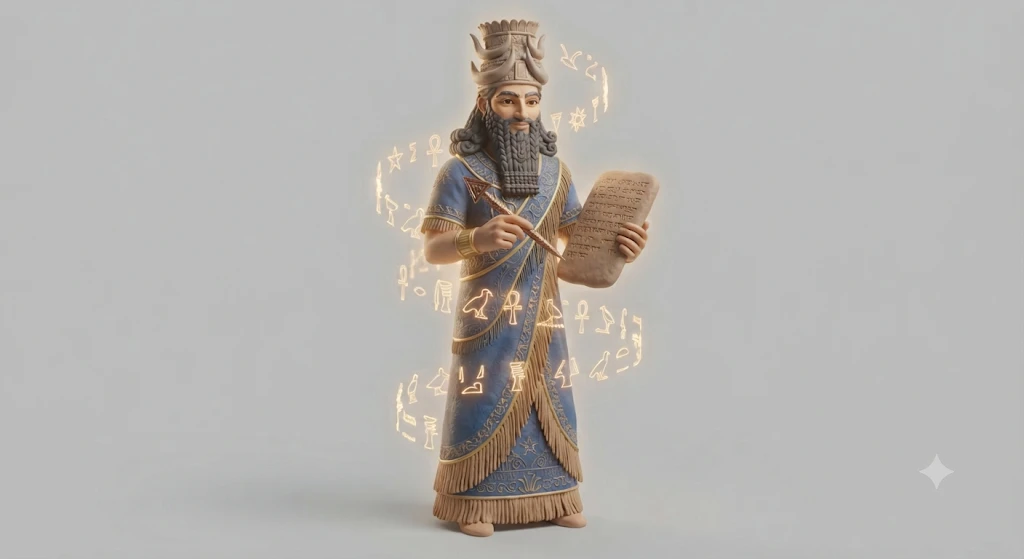
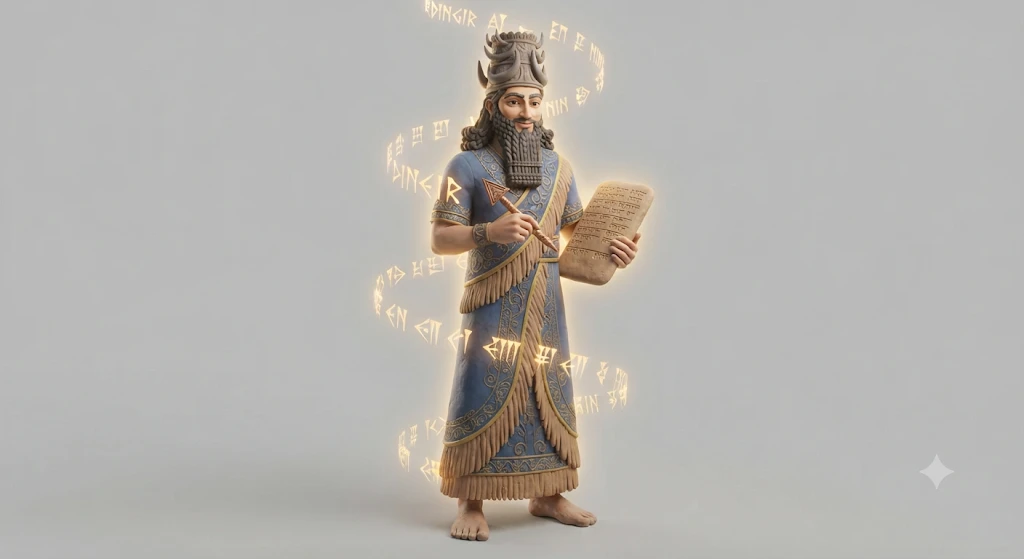
Sổ tay: ảnh Distortia, Nabu (đúng chữ hình nêm), Vorax, Vocara, Silentium; câu lệnh Distortia theo bản chủ dự án (104/105 ảnh)
Claude-Session: https://claude.ai/code/session_01Ff7HpW9FWNnmYmk5795aNF

Changed region(s): [[0.3438, 0.0, 0.6562, 0.9732]]

diff --git a/docs/design/bestiary.html b/docs/design/bestiary.html
@@ -95,7 +95,7 @@ footer{margin-top:40px;color:var(--fog);font-size:.88rem;display:grid;gap:6px}
 
 <div class="wrap">
   <header>
-    <div class="eyebrow">EnglishVerse · sổ tay nhân vật · bản thử 24 · 20/11</div>
+    <div class="eyebrow">EnglishVerse · sổ tay nhân vật · bản thử 25 · 20/11</div>
     <h1>Mute <span>Bestiary</span></h1>
     <p class="lead">25 thần quái của vòng trong và 2 thần thú bị xiềng quanh The Last Echo City: 15 quái thường, 3 tinh anh, 1 quái hiếm và 5 trùm. Nhiều con lấy từ thành ngữ, ca dao, trò chơi dân gian. Silentium nặn chúng từ nỗi sợ trong chính truyện kể và đời sống của vùng đất này. Mỗi con đang giam Word Spirits trong người.</p>
     <div class="note">
@@ -495,11 +495,11 @@ const M = [
   {"id": "anzu", "img": "concept/anzu.webp", "tier": "elite", "gen": "Vorax", "name": "Anzû", "vn": "Anzû · Chim Đầu Sư Tử Cướp Phiến Định Mệnh", "emo": "🦁", "body": "chim thần thoại (giữ nguyên)", "lore": "Thần thoại kể chim khổng lồ Anzû đầu sư tử đã cướp Phiến Định Mệnh, phiến đất sét khắc những lời quyết định mọi thứ trên đời, rồi bay lên núi giấu đi. Vorax cho nó cướp lại lần nữa: lần này là mọi phiến chữ còn sót lại của Lưỡng Hà.", "mean": "Bị \"cướp lượt\": người khác nói chen, mình mất cơ hội nói.", "shape": ["Đại bàng khổng lồ cánh nâu sẫm viền vàng", "Đầu sư tử bờm dày, nanh to", "Móng quặp một phiến đất sét lớn phát sáng", "Bụng phình đỏ thẫm chứa chữ hình nêm bị nuốt", "Hàm sư tử bị xích, mắt sắc"], "pal": [["#5A3E2A", "lông nâu"], ["#C9973E", "bờm vàng"], ["#E0465C", "Vorax"], ["#9B6DFF", "Mute"]], "pers": "Tham lam, kiêu ngạo, thích cướp.", "fight": "Quái tinh anh: máu ×2. Sà xuống cướp 1 hiệu ứng có lợi của người chơi (khiên, tăng sức) rồi bay lên. Vỗ cánh tạo bão cát. Đánh vào phiến đất sét: rơi Word Spirits.", "p": "Anzu, the giant lion-headed eagle from Mesopotamian myth: huge dark brown eagle wings edged with gold, a lion head with a thick mane and big fangs, its talons clutching a large glowing clay tablet, a crimson glowing belly full of swallowed cuneiform characters, its lion jaws chained shut, sharp eyes. Surreal dark-fantasy creature for a stylized 3D mobile game: stylized proportions, soft clay-like materials, bold readable silhouette, menacing and cool, sharp narrow glowing eyes with an intimidating glare, NOT cute or goofy. Mute-faction markings: its mouth is sealed (stitched shut, zipped or bound), glowing violet cracks on the body with tiny luminous cuneiform wedge characters trapped inside. Full body, single character, front three-quarter view, neutral standing pose, centered, plain light grey background, no text, no logo, no ground shadow. Elite monster, twice the size of normal monsters. Accent: deep crimson glow.", "zone": "↙ Khu Lưỡng Hà · Babel Rift · Lv.90–100", "area": "me", "full": true},
   {"id": "lamassu", "img": "concept/lamassu.webp", "tier": "boss", "gen": "Oblivia", "name": "Lamassu", "vn": "Lamassu · Thần Bò Canh Cổng", "emo": "🐂", "body": "thần canh cổng (giữ nguyên)", "lore": "Lamassu là thần hộ vệ đầu người, thân bò, cánh đại bàng, được tạc thành tượng khổng lồ hai bên cổng cung điện Lưỡng Hà. Tượng thật có năm chân: nhìn thẳng thấy đứng yên, nhìn nghiêng thấy đang bước. Silentium đặt nó canh chân tháp Babel đổ nát, nơi mở ra cổng vào The Mute Realm, và Oblivia xoá sạch ký ức của nó về tiếng nói chung đầu tiên của loài người. Giải thoát Lamassu, Nabu (vị thần của chữ viết và người chép chữ) truyền lời qua vòm và trao cây bút khắc chữ hình nêm; còn Lamassu quay về đúng việc của mình: canh cổng, nhưng lần này cho các Voice đi qua để đối mặt Silentium.", "mean": "Quên mất rằng ngôn ngữ sinh ra để nối con người với nhau.", "shape": ["Thân bò mộng khổng lồ bằng đá vôi, năm chân (đúng như tượng thật)", "Đầu người đội mũ có sừng, râu tết thành lọn dài", "Đôi cánh đại bàng lớn khắc từng lông", "Nửa khuôn mặt bị tẩy trắng trơn (dấu Oblivia)", "Xích chữ hình nêm tím quấn quanh, ấn phong nứt trên trán; sau lưng là chân tháp Babel đổ nát có cổng xoáy tím"], "pal": [["#D8C9A8", "đá vôi"], ["#2F5DA8", "lam"], ["#C9A46A", "vàng"], ["#EAE6DC", "Oblivia"]], "pers": "Uy nghiêm, cổ xưa, đau đớn vì quên mất chính mình.", "fight": "3 giai đoạn. (1) Húc và dậm đất, vòng đỏ hình nón. (2) Bay lên, đập cánh tạo bão cát; đòn \"Tẩy\" làm mờ 1 nút chiêu 5 giây. (3) Cổng xoáy tím sau lưng mở rộng, hút người chơi về phía cổng, gọi Tablet Golem. Hạ nó: cổng vào The Mute Realm mở ra cho trận cuối.", "p": "A colossal lamassu boss from ancient Mesopotamia: the body of a giant bull carved of limestone with FIVE legs like the real palace sculptures, a human head wearing a horned crown and a long braided beard, large carved eagle wings, half of its face smooth and blank white as if erased, standing before the ruined base of a colossal spiral tower with a swirling violet portal. Wrapped in violet chains made of glowing cuneiform characters, a cracked violet seal glowing on its forehead. Surreal dark-fantasy boss creature for a stylized 3D mobile game: epic and majestic, fierce sharp glowing eyes, NOT cute or goofy, soft clay-like stylized materials, bold readable silhouette, three times the size of normal monsters. Mute corruption: glowing violet cracks across its body with tiny luminous cuneiform wedge characters trapped inside. Full body, single creature, front three-quarter view, centered, plain light grey background, no text, no logo, no ground shadow. Accent: smooth blank white erased patches.", "zone": "↙ Khu Lưỡng Hà · Babel Rift · Lv.90–100", "area": "me", "full": true},
   {"id": "tiamat", "img": "concept/tiamat.webp", "gen": "Oblivia", "name": "Tiamat", "vn": "Tiamat · Mẹ Của Quái Vật", "emo": "🐲", "body": "rồng biển năm đầu (phong cách trùm)", "lore": "Sử thi sáng thế Enuma Elish kể Tiamat là biển mặn nguyên thuỷ, mẹ của mọi quái vật: chính bà sinh ra người bọ cạp, rồng mušḫuššu và nhiều quái khác để chống lại các vị thần. Oblivia đánh thức bà dưới chân tháp Babel: biển nguyên thuỷ dâng lên, xoá mọi dòng chữ nó chạm vào.", "mean": "Nỗi sợ gốc rễ sinh ra mọi nỗi sợ khác khi nói.", "shape": ["Rồng biển khổng lồ năm đầu, năm cổ dài vươn ra như sóng dữ", "Năm đầu cùng chất liệu nước biển thẫm, khác nhau ở hình dáng sừng và hàm (không chia màu)", "Đôi cánh khổng lồ như hai màng sóng biển dựng đứng, viền bọt trắng", "Thân là nước mặn xanh thẫm, lờ mờ bóng quái vật chưa thành hình bên trong", "Đuôi dài khoẻ cuộn ra phía trước, cuối đuôi là vây như con sóng vỡ; xích chữ hình nêm tím, ấn phong nứt trên đầu giữa"], "pal": [["#16324A", "biển thẫm"], ["#2F8FA8", "sóng"], ["#F2F0E6", "bọt"], ["#EAE6DC", "Oblivia"]], "pers": "Cổ xưa, mênh mông, giận dữ như biển động.", "fight": "Trùm hiếm (~5% thay Lamassu), rơi đồ quý. (1) Sóng nước quét ngang sân. (2) Sinh quái: gọi Scorpion Guard và Sirrush ra. (3) Nước dâng: sân thu hẹp; đòn \"Tẩy\" làm mờ 1 nút chiêu 5 giây.", "p": "Tiamat, the primordial sea dragon and mother of monsters from the Babylonian creation epic: a colossal dragon with FIVE long-necked heads rising like raging waves, all five heads made of the same deep dark-blue sea water with coral-like horns and sea-foam manes, each head with a different horn and jaw shape (NOT different colors), two enormous wings like towering membranes of storm-sea waves edged with white foam, a body of dark salt water with faint shapes of unborn monsters inside. A long powerful tail ending in a fin like a breaking wave, clearly visible and curling around to the front. Wrapped in violet chains made of glowing cuneiform characters, a cracked violet seal on the central head. Surreal dark-fantasy boss creature for a stylized 3D mobile game: epic and majestic, fierce sharp glowing eyes, NOT cute or goofy, soft clay-like stylized materials, bold readable silhouette, three times the size of normal monsters. Mute corruption: glowing violet cracks across its body with tiny luminous cuneiform wedge characters trapped inside. Full body, single creature, front three-quarter view, centered, plain light grey background, no text, no logo, no ground shadow. No white spots or blank patches on the body.", "tier": "boss", "rb": true, "zone": "↙ Khu Lưỡng Hà · Babel Rift · Lv.90–100", "area": "me", "full": true},
-  {"id": "vocara", "tier": "supreme", "name": "Vocara", "vn": "Đấng Tiếng Nói Tối Cao", "emo": "🌟", "body": "thực thể ánh sáng", "zone": "✨ Chiều 3 · The Langua", "lore": "Vocara ban cho loài người Vox Prima, chiếc thanh quản thần thánh, cùng bản năng sống thành bầy. Vocara không trao sẵn ngôn ngữ nào, chỉ trao khả năng nói. Ở tháp Babel, chính Vocara tách tiếng nói chung thành nhiều thứ tiếng để The Mute không thể xoá tất cả trong một đòn.", "mean": "Ngôn ngữ là món quà, và sự đa dạng ngôn ngữ là thứ bảo vệ loài người.", "shape": ["Không có khuôn mặt, không giới tính: một hình người cao lớn bằng ánh sáng vàng trắng", "Ở cổ là một tinh thể hình thanh quản, các dây thanh như dây đàn hạc phát sáng (Vox Prima)", "Sau lưng là đôi cánh làm từ những vòng sóng âm", "Từ thân toả ra chữ cái của mọi ngôn ngữ, bay như đom đóm", "Chỉ hiện như ánh sáng và giọng nói, không bao giờ rõ nét"], "pal": [["#FFF4D6", "ánh sáng"], ["#F5C451", "vàng"], ["#BFE7F2", "sóng âm"], ["#FFFFFF", "trắng"]], "pers": "Bao dung, xa xăm, chỉ lên tiếng qua giọng nói con người.", "fight": "Không bao giờ hiện hình rõ. Phim mở đầu: ánh sáng và giọng nói kể chuyện. Trong game: Babel Tower phát sáng mỗi khi cả server góp đủ câu nói.", "p": "Vocara, the supreme being of speech: a tall faceless genderless humanoid form made entirely of warm golden-white light, a glowing crystal shaped like a larynx at its throat with vocal cords like shining harp strings, wings made of concentric sound-wave rings, letters from all the world's alphabets drifting out of its body like fireflies, soft and abstract, never fully defined, original design NOT based on any religious figure. Majestic benevolent deity character for a stylized 3D mobile game: soft clay-like stylized materials, a warm golden glow, a wise, kind but powerful presence, bold readable silhouette, a respectful depiction faithful to the original mythology. Full body, single character, front three-quarter view, centered, plain light grey background, no text, no logo, no ground shadow.", "area": "pa", "full": true},
-  {"id": "silentium", "tier": "lord", "name": "Silentium", "vn": "Chúa Tể The Mute", "emo": "🌑", "body": "hình người rỗng của im lặng", "zone": "🌑 Chiều 1 · The Mute Realm", "lore": "Silentium là chúa tể của The Mute Realm, thế lực của im lặng và quên lãng. Lần đầu ở tháp Babel, hắn tưởng đã thắng nên bỏ đi. Lần này hắn quay lại, ở lại hẳn, phá Vocal Frequency, xoá tri thức và nhốt linh hồn ngôn ngữ vào lũ thần quái. Im lặng là sự vắng mặt, nên hắn không cần thân xác: thân hắn là một khoảng trống.", "mean": "Im lặng vì sợ: kẻ thù thật sự của người học nói.", "shape": ["Hình người khổng lồ trùm áo choàng xám tro, nhưng thân là khoảng trống rỗng: nhìn xuyên qua thấy nhiễu sóng như màn hình tắt", "Không có miệng; khuôn mặt nhẵn như mặt nạ đá, chỉ có hai khe mắt tím", "Ngón tay dài đặt lên chỗ lẽ ra là môi, cử chỉ \"suỵt\"", "Vương miện là những đường sóng âm bị duỗi thẳng thành một vạch phẳng", "Áo choàng kết từ những trang sách đã bị xoá trắng; vết nứt tím lan ra từ chân hắn"], "pal": [["#6E6A78", "tro xám"], ["#1A1724", "bóng tối"], ["#9B6DFF", "tím Mute"], ["#D8D4E0", "trang xoá"]], "pers": "Lạnh lẽo, kiêu ngạo, ghen tị với thế giới loài người.", "fight": "Phim mở đầu: chỉ thấy bóng mờ phủ lên thành phố. Trận cuối: trùm tối thượng ở tầng sâu nhất của The Mute Realm, sau khi hạ 4 tướng (thiết kế trận đấu sau).", "p": "Silentium, the lord of silence: a colossal hooded figure in an ash-grey cloak whose body is a hollow void, through which you see grey television static, a smooth stone-mask face with NO mouth and only two narrow violet eye slits, one long finger raised to where its lips should be in a 'shh' gesture, a crown made of sound waves flattened into a single straight line, its cloak made of pages with erased blank text, violet cracks spreading from its feet. Supreme dark-fantasy villain character for a stylized 3D mobile game: epic, ominous and majestic, NOT gory, soft clay-like stylized materials, bold readable silhouette, a palette of grey, black and violet. Full body, single character, front three-quarter view, centered, plain light grey background, no text, no logo, no ground shadow.", "area": "pa", "full": true},
-  {"id": "distortia", "tier": "general", "gen": "Distortia", "name": "Distortia", "vn": "Tướng Nhiễu Sóng", "emo": "📡", "body": "thực thể nhiễu", "zone": "🌑 Chiều 1 · The Mute Realm", "lore": "Distortia là tướng làm nhiễu Vocal Frequency: lời nào đi qua tay nó cũng méo, đảo chỗ, nghe không ra. Thuồng Luồng, Banshee, Siren, Cửu Anh… đều mang dấu xanh lơ nhiễu của nó.", "mean": "Nghe nhầm, nói lẫn: âm thanh bị bóp méo.", "shape": ["Hình người đầy đủ từ đầu tới chân, đứng vững trên hai chân (để dựng 3D), thân ghép từ mảnh gương vỡ", "Khuôn mặt bị nhân đôi, nhân ba, lệch hình như ảnh nhiễu", "Tóc là những dải sóng âm răng cưa màu xanh lơ", "Cầm cây âm thoa xoắn làm quyền trượng", "Vệt nhiễu glitch xanh lơ chạy ngang thân; miệng bị kéo khoá"], "pal": [["#38E1F2", "xanh lơ"], ["#1A1724", "bóng tối"], ["#C8D3E0", "gương"], ["#9B6DFF", "tím Mute"]], "pers": "Láu cá, hỗn loạn, thích trêu chọc.", "fight": "Trùm canh tầng 1 của The Mute Realm. Có thể xuất hiện trong sự kiện theo mùa ở các vết rách.", "p": "Distortia, a general of the Mute, shown FULL BODY from head to feet standing firmly on two legs: a tall humanoid figure made of shattered mirror shards, each shard reflecting at a slightly offset angle, a face duplicated two or three times like a glitched image, hair made of jagged cyan sound-wave ribbons, holding a twisted tuning fork as a scepter, horizontal cyan glitch streaks across its body, its mouth zipped shut. Supreme dark-fantasy villain character for a stylized 3D mobile game: epic, ominous and majestic, NOT gory, soft clay-like stylized materials, bold readable silhouette, a palette of grey, black and violet. Full body, single character, front three-quarter view, centered, plain light grey background, no text, no logo, no ground shadow. Accent color: cyan.", "area": "pa", "full": true},
+  {"id": "vocara", "img": "concept/vocara.webp", "tier": "supreme", "name": "Vocara", "vn": "Đấng Tiếng Nói Tối Cao", "emo": "🌟", "body": "thực thể ánh sáng", "zone": "✨ Chiều 3 · The Langua", "lore": "Vocara ban cho loài người Vox Prima, chiếc thanh quản thần thánh, cùng bản năng sống thành bầy. Vocara không trao sẵn ngôn ngữ nào, chỉ trao khả năng nói. Ở tháp Babel, chính Vocara tách tiếng nói chung thành nhiều thứ tiếng để The Mute không thể xoá tất cả trong một đòn.", "mean": "Ngôn ngữ là món quà, và sự đa dạng ngôn ngữ là thứ bảo vệ loài người.", "shape": ["Không có khuôn mặt, không giới tính: một hình người cao lớn bằng ánh sáng vàng trắng", "Ở cổ là một tinh thể hình thanh quản, các dây thanh như dây đàn hạc phát sáng (Vox Prima)", "Sau lưng là đôi cánh làm từ những vòng sóng âm", "Từ thân toả ra chữ cái của mọi ngôn ngữ, bay như đom đóm", "Chỉ hiện như ánh sáng và giọng nói, không bao giờ rõ nét"], "pal": [["#FFF4D6", "ánh sáng"], ["#F5C451", "vàng"], ["#BFE7F2", "sóng âm"], ["#FFFFFF", "trắng"]], "pers": "Bao dung, xa xăm, chỉ lên tiếng qua giọng nói con người.", "fight": "Không bao giờ hiện hình rõ. Phim mở đầu: ánh sáng và giọng nói kể chuyện. Trong game: Babel Tower phát sáng mỗi khi cả server góp đủ câu nói.", "p": "Vocara, the supreme being of speech: a tall faceless genderless humanoid form made entirely of warm golden-white light, a glowing crystal shaped like a larynx at its throat with vocal cords like shining harp strings, wings made of concentric sound-wave rings, letters from all the world's alphabets drifting out of its body like fireflies, soft and abstract, never fully defined, original design NOT based on any religious figure. Majestic benevolent deity character for a stylized 3D mobile game: soft clay-like stylized materials, a warm golden glow, a wise, kind but powerful presence, bold readable silhouette, a respectful depiction faithful to the original mythology. Full body, single character, front three-quarter view, centered, plain light grey background, no text, no logo, no ground shadow.", "area": "pa", "full": true},
+  {"id": "silentium", "img": "concept/silentium.webp", "tier": "lord", "name": "Silentium", "vn": "Chúa Tể The Mute", "emo": "🌑", "body": "hình người rỗng của im lặng", "zone": "🌑 Chiều 1 · The Mute Realm", "lore": "Silentium là chúa tể của The Mute Realm, thế lực của im lặng và quên lãng. Lần đầu ở tháp Babel, hắn tưởng đã thắng nên bỏ đi. Lần này hắn quay lại, ở lại hẳn, phá Vocal Frequency, xoá tri thức và nhốt linh hồn ngôn ngữ vào lũ thần quái. Im lặng là sự vắng mặt, nên hắn không cần thân xác: thân hắn là một khoảng trống.", "mean": "Im lặng vì sợ: kẻ thù thật sự của người học nói.", "shape": ["Hình người khổng lồ trùm áo choàng xám tro, nhưng thân là khoảng trống rỗng: nhìn xuyên qua thấy nhiễu sóng như màn hình tắt", "Không có miệng; khuôn mặt nhẵn như mặt nạ đá, chỉ có hai khe mắt tím", "Ngón tay dài đặt lên chỗ lẽ ra là môi, cử chỉ \"suỵt\"", "Vương miện là những đường sóng âm bị duỗi thẳng thành một vạch phẳng", "Áo choàng kết từ những trang sách đã bị xoá trắng; vết nứt tím lan ra từ chân hắn"], "pal": [["#6E6A78", "tro xám"], ["#1A1724", "bóng tối"], ["#9B6DFF", "tím Mute"], ["#D8D4E0", "trang xoá"]], "pers": "Lạnh lẽo, kiêu ngạo, ghen tị với thế giới loài người.", "fight": "Phim mở đầu: chỉ thấy bóng mờ phủ lên thành phố. Trận cuối: trùm tối thượng ở tầng sâu nhất của The Mute Realm, sau khi hạ 4 tướng (thiết kế trận đấu sau).", "p": "Silentium, the lord of silence: a colossal hooded figure in an ash-grey cloak whose body is a hollow void, through which you see grey television static, a smooth stone-mask face with NO mouth and only two narrow violet eye slits, one long finger raised to where its lips should be in a 'shh' gesture, a crown made of sound waves flattened into a single straight line, its cloak made of pages with erased blank text, violet cracks spreading from its feet. Supreme dark-fantasy villain character for a stylized 3D mobile game: epic, ominous and majestic, NOT gory, soft clay-like stylized materials, bold readable silhouette, a palette of grey, black and violet. Full body, single character, front three-quarter view, centered, plain light grey background, no text, no logo, no ground shadow.", "area": "pa", "full": true},
+  {"id": "distortia", "img": "concept/distortia.webp", "tier": "general", "gen": "Distortia", "name": "Distortia", "vn": "Tướng Nhiễu Sóng", "emo": "📡", "body": "thực thể nhiễu", "zone": "🌑 Chiều 1 · The Mute Realm", "lore": "Distortia là tướng làm nhiễu Vocal Frequency: lời nào đi qua tay nó cũng méo, đảo chỗ, nghe không ra. Thuồng Luồng, Banshee, Siren, Cửu Anh… đều mang dấu xanh lơ nhiễu của nó.", "mean": "Nghe nhầm, nói lẫn: âm thanh bị bóp méo.", "shape": ["Hình người đầy đủ từ đầu tới chân, đứng vững trên hai chân, thân ghép từ mảnh gương vỡ", "Khuôn mặt bị nhân đôi, nhân ba, lệch hình như ảnh nhiễu", "Tóc là những dải sóng âm răng cưa màu xanh lơ", "Cầm cây âm thoa xoắn làm quyền trượng", "Những vòng sóng âm bao quanh thân; không kéo khoá miệng"], "pal": [["#38E1F2", "xanh lơ"], ["#1A1724", "bóng tối"], ["#C8D3E0", "gương"], ["#9B6DFF", "tím Mute"]], "pers": "Láu cá, hỗn loạn, thích trêu chọc.", "fight": "Trùm canh tầng 1 của The Mute Realm. Có thể xuất hiện trong sự kiện theo mùa ở các vết rách.", "p": "Distortia, a general of the Mute, shown FULL BODY from head to feet standing firmly on two legs: a tall humanoid figure made of shattered mirror shards, each shard reflecting at a slightly offset angle, a face duplicated two or three times like a glitched image, hair made of jagged cyan sound-wave ribbons, holding a twisted tuning fork as a scepter, soundwave surround body. Supreme dark-fantasy villain character for a stylized 3D mobile game: epic, ominous and majestic, NOT gory, soft clay-like stylized materials, bold readable silhouette, a palette of grey, black and violet. Full body, single character, front three-quarter view, centered, plain light grey background, no text, no logo, no ground shadow. Accent color: cyan. no mouth zip and whole body", "area": "pa", "full": true},
   {"id": "oblivia", "tier": "general", "gen": "Oblivia", "name": "Oblivia", "vn": "Tướng Xoá Tri Thức", "emo": "🧽", "body": "thực thể trang giấy trắng", "zone": "🌑 Chiều 1 · The Mute Realm", "lore": "Oblivia là tướng xoá tri thức: nó làm loài người quên cách vận hành chính thế giới họ đã xây, quên từ, quên chữ. Nhân Sư, Lamassu, Chằn Tinh… đều mang những mảng trắng trơn của nó.", "mean": "Quên: học rồi mà không nhớ.", "shape": ["Hình người cao gầy khoác áo choàng ghép từ giấy trắng trơn", "Khuôn mặt nhẵn hoàn toàn như bị tẩy sạch", "Tay cầm một cục tẩy khổng lồ như cây chuỳ, hoặc chiếc chổi lông xoá mực", "Phía sau là vệt mực đang mờ dần thành trắng", "Chữ trôi quanh nó tan biến khi chạm vào"], "pal": [["#F3F1EC", "trắng tẩy"], ["#B8B4AC", "xám giấy"], ["#2A2622", "mực"], ["#9B6DFF", "tím Mute"]], "pers": "Lặng lẽ, lạnh, kiên nhẫn đến đáng sợ.", "fight": "Trùm canh tầng 2 của The Mute Realm. Có thể xuất hiện trong sự kiện theo mùa ở các vết rách.", "p": "Oblivia, a general of the Mute: a tall thin figure wearing a cloak stitched from blank white paper, a completely smooth erased face, holding a giant eraser like a mace, a trail of ink fading into white behind it, letters drifting around it dissolving as they touch it. Supreme dark-fantasy villain character for a stylized 3D mobile game: epic, ominous and majestic, NOT gory, soft clay-like stylized materials, bold readable silhouette, a palette of grey, black and violet. Full body, single character, front three-quarter view, centered, plain light grey background, no text, no logo, no ground shadow. Accent: smooth blank white.", "area": "pa", "full": true},
-  {"id": "vorax", "tier": "general", "gen": "Vorax", "name": "Vorax", "vn": "Tướng Nuốt Linh Hồn Chữ", "emo": "🏺", "body": "nhân dạng · người sưu tầm chữ", "zone": "🌑 Chiều 1 · The Mute Realm", "lore": "Vorax là tướng tham lam nhất của Silentium: kẻ sưu tầm chữ. Hắn ôm chiếc Hũ Vạn Ngôn, miệng hũ xoáy thành cơn lốc hút mọi lời nói, mọi trang sách vào trong; những gì không hút được thì cháy thành tàn đỏ. Lũ thần quái như Ông Kẹ, Ammit, Thao Thiết, Kukulkan chỉ là những \"chiếc túi\" hắn sai đi gom chữ về.", "mean": "Nuốt chữ: nói không rõ, không trọn câu.", "shape": ["Nhân dạng cao lớn, vai rộng, dáng lịch lãm mà đáng sợ", "Áo choàng dài đỏ thẫm và đen, cổ áo cao, đeo găng tay", "Ôm chiếc hũ cổ bằng đồng có xích (Hũ Vạn Ngôn), miệng hũ xoáy như lốc, hút chữ phát sáng vào trong", "Quanh mình bay những trang sách đang cháy dở thành tàn lửa đỏ thẫm", "Nửa dưới mặt che bằng mặt nạ kim loại đỏ thẫm (miệng bị niêm), mắt sắc đỏ"], "pal": [["#E0465C", "đỏ thẫm"], ["#5A1E2A", "bóng đỏ"], ["#F5C451", "Word Spirits"], ["#9B6DFF", "tím Mute"]], "pers": "Lịch lãm, tham lam, coi chữ như bộ sưu tập của riêng mình.", "fight": "Trùm canh tầng 3 của The Mute Realm. Có thể xuất hiện trong sự kiện theo mùa ở các vết rách.", "p": "Vorax, a general of the Mute, in a cool HUMANOID form (NOT a monster, NO mouth on the belly): a tall imposing broad-shouldered man with an elegant yet menacing presence, a long crimson and black high-collared coat and gloves, the lower half of his face covered by a crimson metal mask, sharp red eyes, cradling an ancient chained bronze jar whose opening swirls like a vortex sucking in glowing letters, burning book pages drifting around him turning into crimson embers, standing on two legs. Supreme dark-fantasy villain character for a stylized 3D mobile game: epic, ominous and majestic, NOT gory, soft clay-like stylized materials, bold readable silhouette, a palette of grey, black and violet. Full body, single character, front three-quarter view, centered, plain light grey background, no text, no logo, no ground shadow. Accent color: deep crimson.", "area": "pa", "full": true},
+  {"id": "vorax", "img": "concept/vorax.webp", "tier": "general", "gen": "Vorax", "name": "Vorax", "vn": "Tướng Nuốt Linh Hồn Chữ", "emo": "🏺", "body": "nhân dạng · người sưu tầm chữ", "zone": "🌑 Chiều 1 · The Mute Realm", "lore": "Vorax là tướng tham lam nhất của Silentium: kẻ sưu tầm chữ. Hắn ôm chiếc Hũ Vạn Ngôn, miệng hũ xoáy thành cơn lốc hút mọi lời nói, mọi trang sách vào trong; những gì không hút được thì cháy thành tàn đỏ. Lũ thần quái như Ông Kẹ, Ammit, Thao Thiết, Kukulkan chỉ là những \"chiếc túi\" hắn sai đi gom chữ về.", "mean": "Nuốt chữ: nói không rõ, không trọn câu.", "shape": ["Nhân dạng cao lớn, vai rộng, dáng lịch lãm mà đáng sợ", "Áo choàng dài đỏ thẫm và đen, cổ áo cao, đeo găng tay", "Ôm chiếc hũ cổ bằng đồng có xích (Hũ Vạn Ngôn), miệng hũ xoáy như lốc, hút chữ phát sáng vào trong", "Quanh mình bay những trang sách đang cháy dở thành tàn lửa đỏ thẫm", "Nửa dưới mặt che bằng mặt nạ kim loại đỏ thẫm (miệng bị niêm), mắt sắc đỏ"], "pal": [["#E0465C", "đỏ thẫm"], ["#5A1E2A", "bóng đỏ"], ["#F5C451", "Word Spirits"], ["#9B6DFF", "tím Mute"]], "pers": "Lịch lãm, tham lam, coi chữ như bộ sưu tập của riêng mình.", "fight": "Trùm canh tầng 3 của The Mute Realm. Có thể xuất hiện trong sự kiện theo mùa ở các vết rách.", "p": "Vorax, a general of the Mute, in a cool HUMANOID form (NOT a monster, NO mouth on the belly): a tall imposing broad-shouldered man with an elegant yet menacing presence, a long crimson and black high-collared coat and gloves, the lower half of his face covered by a crimson metal mask, sharp red eyes, cradling an ancient chained bronze jar whose opening swirls like a vortex sucking in glowing letters, burning book pages drifting around him turning into crimson embers, standing on two legs. Supreme dark-fantasy villain character for a stylized 3D mobile game: epic, ominous and majestic, NOT gory, soft clay-like stylized materials, bold readable silhouette, a palette of grey, black and violet. Full body, single character, front three-quarter view, centered, plain light grey background, no text, no logo, no ground shadow. Accent color: deep crimson.", "area": "pa", "full": true},
   {"id": "tremora", "img": "concept/tremora.webp", "tier": "general", "gen": "Tremora", "name": "Tremora", "vn": "Tướng Gieo Nỗi Sợ", "emo": "🔦", "body": "bóng người run rẩy", "zone": "🌑 Chiều 1 · The Mute Realm", "lore": "Tremora là tướng gieo nỗi sợ nói sai: nó làm giọng người run lên, làm người ta thấy cả thế giới đang nhìn mình. Fenrir, Nian, Balor, Hollow Samurai… đều mang ánh vàng bệnh của nó.", "mean": "Sợ đám đông, sợ ánh mắt khi đứng lên nói.", "shape": ["Dáng cao lớn, uy quyền, vai rộng (không gầy yếu)", "Đường viền thân luôn run rẩy", "Áo choàng như rèm sân khấu nặng, rách; đội vương miện đèn sân khấu nhỏ", "Cầm quyền trượng có đèn rọi, chiếu ra hàng trăm mắt khán giả", "Ánh vàng bệnh, miệng bị khâu"], "pal": [["#CFC547", "vàng bệnh"], ["#2A2622", "bóng"], ["#7A1F1F", "rèm sân khấu"], ["#9B6DFF", "tím Mute"]], "pers": "Rình rập, thì thầm, thích nhìn người khác run.", "fight": "Trùm canh tầng 4 của The Mute Realm. Có thể xuất hiện trong sự kiện theo mùa ở các vết rách.", "p": "Tremora, a general of the Mute: a tall, imposing and powerful figure (NOT frail, NOT thin or sickly-looking) with a commanding regal posture and broad shoulders, its outlines constantly trembling and wavy, a robe like a heavy torn theatre curtain, a crown of small stage lights, holding a staff topped with a stage spotlight lantern whose beam projects hundreds of watching audience eyes onto the ground, a sickly yellow glow, its mouth stitched shut. Supreme dark-fantasy villain character for a stylized 3D mobile game: epic, ominous and majestic, NOT gory, soft clay-like stylized materials, bold readable silhouette, a palette of grey, black and violet. Full body, single character, front three-quarter view, centered, plain light grey background, no text, no logo, no ground shadow. Accent color: sickly yellow.", "area": "pa", "full": true},
   {"id": "thoth", "img": "concept/thoth.webp", "tier": "deity", "name": "Thoth", "vn": "Ai Cập · chữ tượng hình", "emo": "𓁟", "body": "thần (giữ đúng thần thoại)", "zone": "✨ Chiều 3 · The Langua · khu 🏜", "lore": "Thần đầu cò quăm của Ai Cập, người trao chữ viết và ghi chép mọi tri thức trong thần thoại.", "mean": "Người trao chữ, giữ chữ cho một nền văn hoá.", "shape": ["Thân người cao, đầu cò quăm (ibis) mỏ dài cong", "Tay cầm bút sậy và bảng màu của người chép chữ", "Váy vải lanh trắng, vòng cổ vàng lam", "Trên đầu có vầng trăng khuyết", "Chữ tượng hình vàng bay quanh"], "pal": [["#F5C451", "vàng"], ["#FFF4D6", "ánh sáng"], ["#2F5DA8", "lam"], ["#E8D9B5", "giấy cổ"]], "pers": "Thông thái, hiền, chỉ tác động gián tiếp qua giọng nói con người.", "fight": "Hiện hình ảo ánh vàng trên Babel Tower khi người chơi giải phóng khu của mình, trao vũ khí cấp thấp. Các lần khác, nhắn nhiệm vụ qua The Oracle Lady.", "p": "A respectful depiction of Thoth, the ibis-headed Egyptian god of writing: a tall human body with the head of an ibis with a long curved beak, holding a reed pen and a scribe's palette, a white linen kilt and a gold-and-lapis collar, a crescent moon disc above his head, golden hieroglyphs floating around him. Majestic benevolent deity character for a stylized 3D mobile game: soft clay-like stylized materials, a warm golden glow, a wise, kind but powerful presence, bold readable silhouette, a respectful depiction faithful to the original mythology. Full body, single character, front three-quarter view, centered, plain light grey background, no text, no logo, no ground shadow.", "area": "pa", "full": true},
   {"id": "nabu", "img": "concept/nabu.webp", "tier": "deity", "name": "Nabu", "vn": "Lưỡng Hà · chữ hình nêm", "emo": "📜", "body": "thần (giữ đúng thần thoại)", "zone": "✨ Chiều 3 · The Langua · khu ↙", "lore": "Thần của chữ viết và người chép chữ ở Babylon, biểu tượng là cây bút khắc trên phiến đất sét.", "mean": "Người trao chữ, giữ chữ cho một nền văn hoá.", "shape": ["Râu tết lọn dài kiểu Babylon", "Đội mũ có sừng của thần Lưỡng Hà", "Một tay cầm bút khắc hình nêm, tay kia cầm phiến đất sét", "Áo choàng dài có tua", "Chữ hình nêm vàng bay quanh"], "pal": [["#F5C451", "vàng"], ["#FFF4D6", "ánh sáng"], ["#2F5DA8", "lam"], ["#E8D9B5", "giấy cổ"]], "pers": "Thông thái, hiền, chỉ tác động gián tiếp qua giọng nói con người.", "fight": "Hiện hình ảo ánh vàng trên Babel Tower khi người chơi giải phóng khu của mình, trao vũ khí cấp thấp. Các lần khác, nhắn nhiệm vụ qua The Oracle Lady.", "p": "A respectful depiction of Nabu, the Babylonian god of writing and scribes: a long braided Babylonian beard, a horned crown of a Mesopotamian deity, a wedge-tipped stylus in one hand and a clay tablet in the other, a long fringed robe, golden Mesopotamian cuneiform characters (wedge-shaped marks like those pressed into clay tablets, NOT Egyptian hieroglyphs, NOT runes) floating around him. Majestic benevolent deity character for a stylized 3D mobile game: soft clay-like stylized materials, a warm golden glow, a wise, kind but powerful presence, bold readable silhouette, a respectful depiction faithful to the original mythology. Full body, single character, front three-quarter view, centered, plain light grey background, no text, no logo, no ground shadow.", "area": "pa", "full": true},
